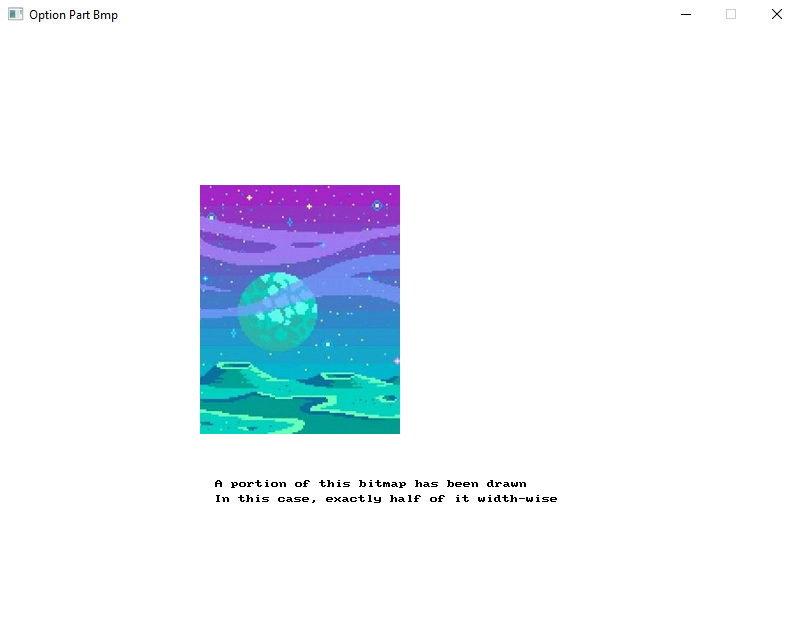
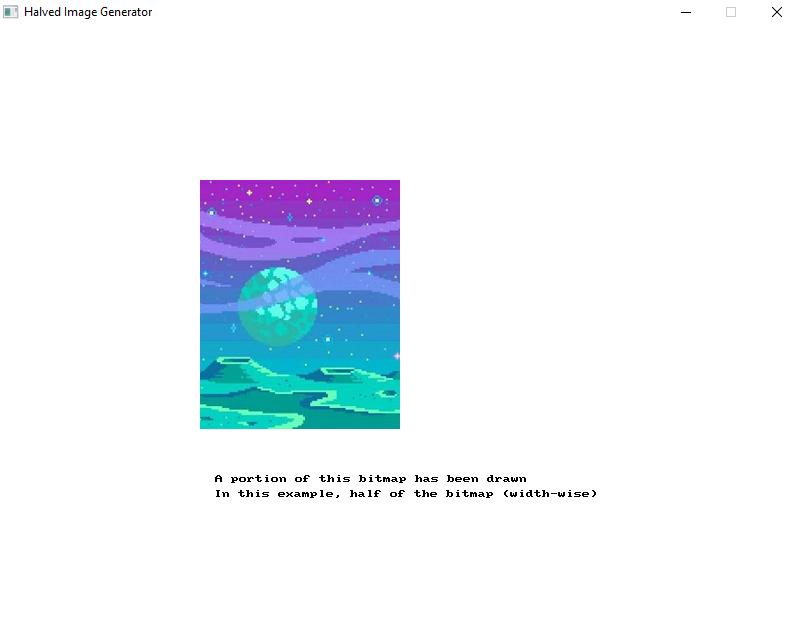
Add files via upload

diff --git a/public/usage-examples/graphics/option_part_bmp-1-example-top-level.cs b/public/usage-examples/graphics/option_part_bmp-1-example-top-level.cs
@@ -1,17 +1,17 @@
 using SplashKitSDK;
 using static SplashKitSDK.SplashKit;
 
-OpenWindow("Option Part Bmp", 800, 600);
+SplashKit.OpenWindow("Halved Image Generator", 800, 600);
 
-Bitmap imageBitmap = LoadBitmap("image_bitmap", "image1.jpg");
+Bitmap imageBitmap = SplashKit.LoadBitmap("image_bitmap", "image1.jpg");
 
-ClearScreen(ColorWhite());
-// Function used here ↓
-DrawBitmap(imageBitmap, 200, 155, OptionPartBmp(0, 0, 200, 249));
-DrawText("A portion of this bitmap has been drawn", ColorBlack(), 215, 450);
-DrawText("In this case, exactly half of it width-wise", ColorBlack(), 214, 465);
-RefreshScreen();
+SplashKit.ClearScreen(ColorWhite());
+// A bitmap is drawn with the 'option_part_bmp' function included in its drawing options
+SplashKit.DrawBitmap(imageBitmap, 200, 155, SplashKit.OptionPartBmp(0, 0, SplashKit.BitmapWidth(imageBitmap) / 2, SplashKit.BitmapHeight(imageBitmap)));
+SplashKit.DrawText("A portion of this bitmap has been drawn", ColorBlack(), 215, 450);
+SplashKit.DrawText("In this example, half of the bitmap (width-wise)", ColorBlack(), 214, 465);
+SplashKit.RefreshScreen();
 
-Delay(5000);
+SplashKit.Delay(5000);
 
-CloseAllWindows();
+SplashKit.CloseAllWindows();

diff --git a/public/usage-examples/graphics/option_part_bmp-1-example-oop.cs b/public/usage-examples/graphics/option_part_bmp-1-example-oop.cs
@@ -6,15 +6,15 @@ namespace OptionPartBmpExample
     {
         public static void Main()
         {
-            SplashKit.OpenWindow("Option Part Bmp", 800, 600);
+            SplashKit.OpenWindow("Halved Image Generator", 800, 600);
 
             Bitmap imageBitmap = SplashKit.LoadBitmap("image_bitmap", "image1.jpg");
 
             SplashKit.ClearScreen(Color.White);
-            // Function used here ↓
-            SplashKit.DrawBitmap(imageBitmap, 200, 155, SplashKit.OptionPartBmp(0, 0, 200, 249));
+            // A bitmap is drawn with the 'option_part_bmp' function included in its drawing options
+            SplashKit.DrawBitmap(imageBitmap, 200, 155, SplashKit.OptionPartBmp(0, 0, SplashKit.BitmapWidth(imageBitmap) / 2, SplashKit.BitmapHeight(imageBitmap)));
             SplashKit.DrawText("A portion of this bitmap has been drawn", Color.Black, 215, 450);
-            SplashKit.DrawText("In this case, exactly half of it width-wise", Color.Black, 214, 465);
+            SplashKit.DrawText("In this example, half of the bitmap (width-wise)", Color.Black, 214, 465);
             SplashKit.RefreshScreen();
 
             SplashKit.Delay(5000);

diff --git a/public/usage-examples/graphics/option_part_bmp-1-example.py b/public/usage-examples/graphics/option_part_bmp-1-example.py
@@ -1,14 +1,14 @@
 from splashkit import *
 
-open_window("Option Part Bmp", 800, 600)
+open_window("Halved Image Generator", 800, 600)
 
 image_bitmap = load_bitmap("image_bitmap", "image1.jpg")
 
 clear_screen(color_white())
-# Function used here ↓
-draw_bitmap_with_options(image_bitmap, 200, 155, option_part_bmp(0, 0, 200, 249))
+# A bitmap is drawn with the 'option_part_bmp' function included in its drawing options
+draw_bitmap_with_options(image_bitmap, 200, 155, option_part_bmp(0, 0, bitmap_width(image_bitmap) / 2, bitmap_height(image_bitmap)))
 draw_text_no_font_no_size("A portion of this bitmap has been drawn", color_black(), 215, 450)
-draw_text_no_font_no_size("In this case, exactly half of it width-wise", color_black(), 214, 465)
+draw_text_no_font_no_size("In this example, half of the bitmap (width-wise)", color_black(), 214, 465)
 refresh_screen()
 
 delay(5000)

diff --git a/public/usage-examples/graphics/option_part_bmp-1-example.cpp b/public/usage-examples/graphics/option_part_bmp-1-example.cpp
@@ -2,15 +2,15 @@
 
 int main()
 {
-    open_window("Option Part Bmp", 800, 600);
+    open_window("Halved Image Generator", 800, 600);
 
     bitmap image_bitmap = load_bitmap("image_bitmap", "image1.jpg");
 
     clear_screen(color_white());
-    // Function used here ↓
-    draw_bitmap(image_bitmap, 200, 155, option_part_bmp(0, 0, 200, 249));
+    // A bitmap is drawn with the 'option_part_bmp' function included in its drawing options
+    draw_bitmap(image_bitmap, 200, 155, option_part_bmp(0, 0, bitmap_width(image_bitmap) / 2, bitmap_height(image_bitmap)));
     draw_text("A portion of this bitmap has been drawn", color_black(), 215, 450);
-    draw_text("In this case, exactly half of it width-wise", color_black(), 214, 465);
+    draw_text("In this example, half of the bitmap (width-wise)", color_black(), 214, 465);
     refresh_screen();
 
     delay(5000);
